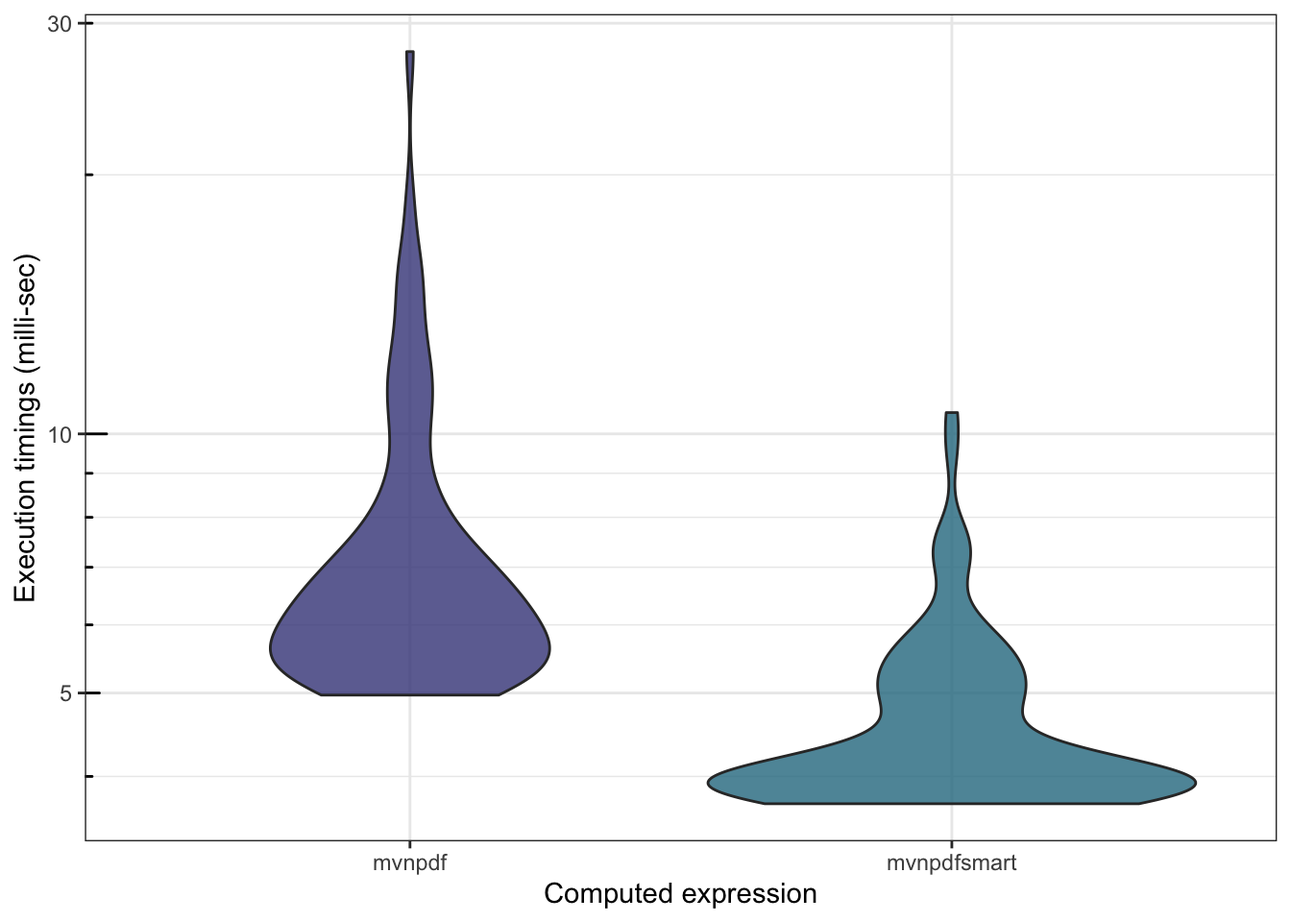
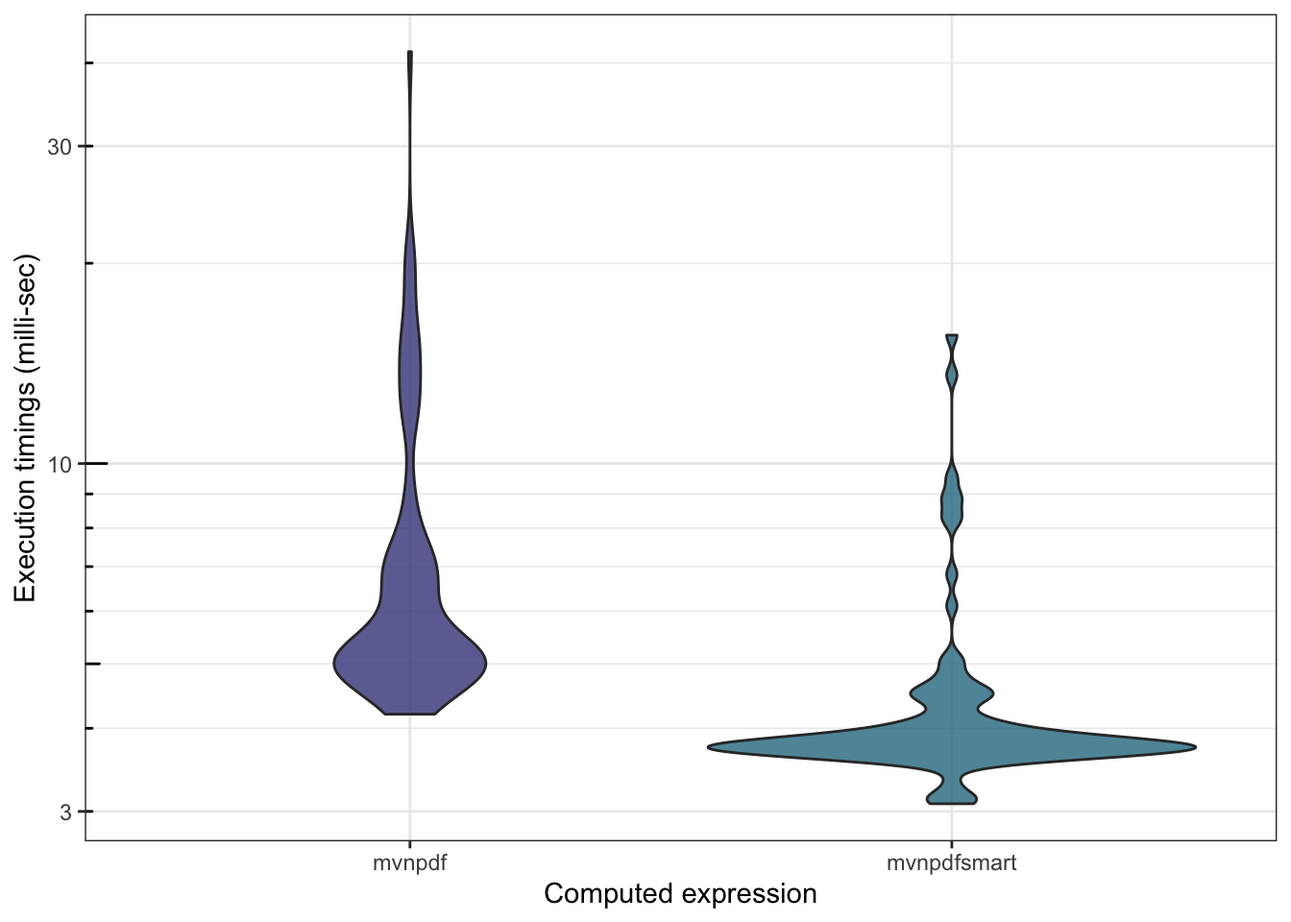
fixed allison horst ref

diff --git a/_book/code-parallelization.html b/_book/code-parallelization.html
@@ -90,7 +90,7 @@
 <p>👉 <strong><em>Your turn !</em></strong></p>
 <p>Start by writing a simple function that computes the logarithm of <span class="math inline">\(n\)</span> numbers:</p>
 <ol style="list-style-type: decimal">
-<li><p>Determine how many cores are available on your computer with the function <code><a href="https://future.futureverse.org/reference/re-exports.html">future::availableCores()</a></code>.</p></li>
+<li><p>Determine how many cores are available on your computer with the function <code><a href="https://rdrr.io/pkg/future/man/re-exports.html">future::availableCores()</a></code>.</p></li>
 <li><p>Using the function <code>future::plan(multisession(workers = XX))</code>, declare a “<em>plan</em>” of parallel computations on your computer (taking care to <strong>always leave at least one core available</strong> to handle other processes).</p></li>
 <li><p>Using one of the <em>apply</em> functions <code>future.apply::future_*apply()</code>, compute the log of <span class="math inline">\(n\)</span> numbers in parallel and concatenate the results into a vector.</p></li>
 <li><p>Compare the execution time with that of a sequential function on the first 100 integers, using the command :<br><code>microbenchmark(log_par(1:100), log_seq(1:100), times=10)</code></p></li>
@@ -111,13 +111,13 @@
 <span class="op">}</span>
 
 <span class="va">log_par</span> <span class="op">&lt;-</span> <span class="kw">function</span><span class="op">(</span><span class="va">x</span><span class="op">)</span><span class="op">{</span>
-  <span class="va">res</span> <span class="op">&lt;-</span> <span class="fu"><a href="https://future.apply.futureverse.org/reference/future_lapply.html">future_sapply</a></span><span class="op">(</span><span class="fl">1</span><span class="op">:</span><span class="fu"><a href="https://rdrr.io/r/base/length.html">length</a></span><span class="op">(</span><span class="va">x</span><span class="op">)</span>, FUN <span class="op">=</span> <span class="kw">function</span><span class="op">(</span><span class="va">i</span><span class="op">)</span> <span class="op">{</span>
+  <span class="va">res</span> <span class="op">&lt;-</span> <span class="fu"><a href="https://rdrr.io/pkg/future.apply/man/future_lapply.html">future_sapply</a></span><span class="op">(</span><span class="fl">1</span><span class="op">:</span><span class="fu"><a href="https://rdrr.io/r/base/length.html">length</a></span><span class="op">(</span><span class="va">x</span><span class="op">)</span>, FUN <span class="op">=</span> <span class="kw">function</span><span class="op">(</span><span class="va">i</span><span class="op">)</span> <span class="op">{</span>
     <span class="fu"><a href="https://rdrr.io/r/base/Log.html">log</a></span><span class="op">(</span><span class="va">x</span><span class="op">[</span><span class="va">i</span><span class="op">]</span><span class="op">)</span>
   <span class="op">}</span><span class="op">)</span>
   <span class="kw"><a href="https://rdrr.io/r/base/function.html">return</a></span><span class="op">(</span><span class="va">res</span><span class="op">)</span>
 <span class="op">}</span>
 
-<span class="fu"><a href="https://future.futureverse.org/reference/plan.html">plan</a></span><span class="op">(</span><span class="fu"><a href="https://future.futureverse.org/reference/multisession.html">multisession</a></span><span class="op">(</span>workers <span class="op">=</span> <span class="fl">3</span><span class="op">)</span><span class="op">)</span>
+<span class="fu"><a href="https://rdrr.io/pkg/future/man/plan.html">plan</a></span><span class="op">(</span><span class="fu"><a href="https://rdrr.io/pkg/future/man/multisession.html">multisession</a></span><span class="op">(</span>workers <span class="op">=</span> <span class="fl">3</span><span class="op">)</span><span class="op">)</span>
 <span class="va">mb</span> <span class="op">&lt;-</span> <span class="fu"><a href="https://rdrr.io/pkg/microbenchmark/man/microbenchmark.html">microbenchmark</a></span><span class="op">(</span><span class="fu">log_par</span><span class="op">(</span><span class="fl">1</span><span class="op">:</span><span class="fl">100</span><span class="op">)</span>, <span class="fu">log_seq</span><span class="op">(</span><span class="fl">1</span><span class="op">:</span><span class="fl">100</span><span class="op">)</span>, times <span class="op">=</span> <span class="fl">50</span><span class="op">)</span></code></pre></div>
 <div class="inline-figure"><img src="AdvancedRcourse_dev_perf_files/figure-html/unnamed-chunk-37-1.png" width="672"></div>
 <p>The parallel version runs much slower… Because in fact, if the individual tasks are too fast, <svg aria-hidden="true" role="img" viewbox="0 0 581 512" style="height:1em;width:1.13em;vertical-align:-0.125em;margin-left:auto;margin-right:auto;font-size:inherit;fill:currentColor;overflow:visible;position:relative;"><path d="M581 226.6C581 119.1 450.9 32 290.5 32S0 119.1 0 226.6C0 322.4 103.3 402 239.4 418.1V480h99.1v-61.5c24.3-2.7 47.6-7.4 69.4-13.9L448 480h112l-67.4-113.7c54.5-35.4 88.4-84.9 88.4-139.7zm-466.8 14.5c0-73.5 98.9-133 220.8-133s211.9 40.7 211.9 133c0 50.1-26.5 85-70.3 106.4-2.4-1.6-4.7-2.9-6.4-3.7-10.2-5.2-27.8-10.5-27.8-10.5s86.6-6.4 86.6-92.7-90.6-87.9-90.6-87.9h-199V361c-74.1-21.5-125.2-67.1-125.2-119.9zm225.1 38.3v-55.6c57.8 0 87.8-6.8 87.8 27.3 0 36.5-38.2 28.3-87.8 28.3zm-.9 72.5H365c10.8 0 18.9 11.7 24 19.2-16.1 1.9-33 2.8-50.6 2.9v-22.1z"></path></svg> will spend more time communicating with the cores than doing the actual computations.</p>
@@ -141,7 +141,7 @@
 <span class="op">}</span>
 <span class="fu"><a href="https://rdrr.io/r/base/system.time.html">system.time</a></span><span class="op">(</span><span class="fu">colmedian_apply</span><span class="op">(</span><span class="va">x</span><span class="op">)</span><span class="op">)</span></code></pre></div>
 <pre><code>## utilisateur     système      écoulé 
-##       3.215       0.032       3.258</code></pre>
+##       2.733       0.003       2.737</code></pre>
 <p>In reality, a (good) <code>for</code> loop is no slower – provided it is nicely programmed:</p>
 <div class="sourceCode" id="cb46"><pre class="downlit sourceCode r">
 <code class="sourceCode R"><span class="va">colmedian_for</span> <span class="op">&lt;-</span> <span class="kw">function</span><span class="op">(</span><span class="va">x</span><span class="op">)</span><span class="op">{</span>
@@ -153,7 +153,7 @@
 <span class="op">}</span>
 <span class="fu"><a href="https://rdrr.io/r/base/system.time.html">system.time</a></span><span class="op">(</span><span class="fu">colmedian_for</span><span class="op">(</span><span class="va">x</span><span class="op">)</span><span class="op">)</span></code></pre></div>
 <pre><code>## utilisateur     système      écoulé 
-##       2.867       0.008       2.881</code></pre>
+##       2.608       0.003       2.613</code></pre>
 <blockquote>
 <p>👉 <strong><em>Your turn !</em></strong>
 Try to further improve this computation time through parallelizing your code:</p>
@@ -164,19 +164,19 @@ Try to further improve this computation time through parallelizing your code:</p
 </blockquote>
 <div class="sourceCode" id="cb48"><pre class="downlit sourceCode r">
 <code class="sourceCode R"><span class="va">colmedian_par</span> <span class="op">&lt;-</span> <span class="kw">function</span><span class="op">(</span><span class="va">x</span><span class="op">)</span><span class="op">{</span>
-  <span class="va">res</span> <span class="op">&lt;-</span> <span class="fu"><a href="https://future.apply.futureverse.org/reference/future_lapply.html">future_sapply</a></span><span class="op">(</span><span class="fl">1</span><span class="op">:</span><span class="fu"><a href="https://rdrr.io/r/base/nrow.html">ncol</a></span><span class="op">(</span><span class="va">x</span><span class="op">)</span>, FUN <span class="op">=</span> <span class="kw">function</span><span class="op">(</span><span class="va">i</span><span class="op">)</span> <span class="op">{</span>
+  <span class="va">res</span> <span class="op">&lt;-</span> <span class="fu"><a href="https://rdrr.io/pkg/future.apply/man/future_lapply.html">future_sapply</a></span><span class="op">(</span><span class="fl">1</span><span class="op">:</span><span class="fu"><a href="https://rdrr.io/r/base/nrow.html">ncol</a></span><span class="op">(</span><span class="va">x</span><span class="op">)</span>, FUN <span class="op">=</span> <span class="kw">function</span><span class="op">(</span><span class="va">i</span><span class="op">)</span> <span class="op">{</span>
           <span class="fu"><a href="https://rdrr.io/r/stats/median.html">median</a></span><span class="op">(</span><span class="va">x</span><span class="op">[</span>, <span class="va">i</span><span class="op">]</span><span class="op">)</span>
     <span class="op">}</span><span class="op">)</span>
   <span class="kw"><a href="https://rdrr.io/r/base/function.html">return</a></span><span class="op">(</span><span class="va">res</span><span class="op">)</span>
 <span class="op">}</span>
-<span class="fu"><a href="https://future.futureverse.org/reference/plan.html">plan</a></span><span class="op">(</span><span class="fu"><a href="https://future.futureverse.org/reference/multisession.html">multisession</a></span><span class="op">(</span>workers <span class="op">=</span> <span class="fl">3</span><span class="op">)</span><span class="op">)</span>
+<span class="fu"><a href="https://rdrr.io/pkg/future/man/plan.html">plan</a></span><span class="op">(</span><span class="fu"><a href="https://rdrr.io/pkg/future/man/multisession.html">multisession</a></span><span class="op">(</span>workers <span class="op">=</span> <span class="fl">3</span><span class="op">)</span><span class="op">)</span>
 <span class="fu"><a href="https://rdrr.io/r/base/system.time.html">system.time</a></span><span class="op">(</span><span class="fu">colmedian_par</span><span class="op">(</span><span class="va">x</span><span class="op">)</span><span class="op">)</span></code></pre></div>
 <pre><code>## utilisateur     système      écoulé 
 ##       0.101       0.019       1.439</code></pre>
 <div class="sourceCode" id="cb50"><pre class="downlit sourceCode r">
 <code class="sourceCode R"><span class="va">colmedian_parIter</span> <span class="op">&lt;-</span> <span class="kw">function</span><span class="op">(</span><span class="va">x</span>, <span class="va">ncores</span> <span class="op">=</span> <span class="fl">1</span><span class="op">)</span><span class="op">{</span>
   <span class="va">iter</span> <span class="op">&lt;-</span> <span class="fu">itertools</span><span class="fu">::</span><span class="fu"><a href="https://rdrr.io/pkg/itertools/man/isplitIndices.html">isplitIndices</a></span><span class="op">(</span>n <span class="op">=</span> <span class="fu"><a href="https://rdrr.io/r/base/nrow.html">ncol</a></span><span class="op">(</span><span class="va">x</span><span class="op">)</span>, chunks <span class="op">=</span> <span class="va">ncores</span><span class="op">)</span>
-  <span class="va">res</span> <span class="op">&lt;-</span> <span class="fu"><a href="https://future.apply.futureverse.org/reference/future_lapply.html">future_sapply</a></span><span class="op">(</span><span class="va">iter</span>, FUN <span class="op">=</span> <span class="kw">function</span><span class="op">(</span><span class="va">i</span><span class="op">)</span> <span class="op">{</span>
+  <span class="va">res</span> <span class="op">&lt;-</span> <span class="fu"><a href="https://rdrr.io/pkg/future.apply/man/future_lapply.html">future_sapply</a></span><span class="op">(</span><span class="va">iter</span>, FUN <span class="op">=</span> <span class="kw">function</span><span class="op">(</span><span class="va">i</span><span class="op">)</span> <span class="op">{</span>
           <span class="fu"><a href="https://rdrr.io/r/base/apply.html">apply</a></span><span class="op">(</span><span class="va">x</span><span class="op">[</span>, <span class="va">i</span><span class="op">]</span>, <span class="fl">2</span>, <span class="va">median</span><span class="op">)</span>
     <span class="op">}</span><span class="op">)</span>
   <span class="kw"><a href="https://rdrr.io/r/base/function.html">return</a></span><span class="op">(</span><span class="fu"><a href="https://rdrr.io/r/base/unlist.html">unlist</a></span><span class="op">(</span><span class="va">res</span><span class="op">)</span><span class="op">)</span>
@@ -249,7 +249,7 @@ Try to further improve this computation time through parallelizing your code:</p
 </ol>
 </blockquote>
 <div class="sourceCode" id="cb62"><pre class="downlit sourceCode r">
-<code class="sourceCode R"><span class="fu"><a href="https://future.futureverse.org/reference/plan.html">plan</a></span><span class="op">(</span><span class="fu"><a href="https://future.futureverse.org/reference/multisession.html">multisession</a></span><span class="op">(</span>workers <span class="op">=</span> <span class="fl">3</span><span class="op">)</span><span class="op">)</span>
+<code class="sourceCode R"><span class="fu"><a href="https://rdrr.io/pkg/future/man/plan.html">plan</a></span><span class="op">(</span><span class="fu"><a href="https://rdrr.io/pkg/future/man/multisession.html">multisession</a></span><span class="op">(</span>workers <span class="op">=</span> <span class="fl">3</span><span class="op">)</span><span class="op">)</span>
 <span class="va">n</span> <span class="op">&lt;-</span> <span class="fl">10000</span>
 <span class="va">mb</span> <span class="op">&lt;-</span> <span class="fu">microbenchmark</span><span class="fu">::</span><span class="fu"><a href="https://rdrr.io/pkg/microbenchmark/man/microbenchmark.html">microbenchmark</a></span><span class="op">(</span>
   <span class="fu">mvtnorm</span><span class="fu">::</span><span class="fu"><a href="https://rdrr.io/pkg/mvtnorm/man/Mvnorm.html">dmvnorm</a></span><span class="op">(</span><span class="fu"><a href="https://rdrr.io/r/base/matrix.html">matrix</a></span><span class="op">(</span><span class="fl">1.96</span>, nrow <span class="op">=</span> <span class="va">n</span>, ncol <span class="op">=</span> <span class="fl">2</span><span class="op">)</span><span class="op">)</span>,

diff --git a/_book/measuring-and-comparing-execution-times.html b/_book/measuring-and-comparing-execution-times.html
@@ -73,13 +73,13 @@
 <div class="sourceCode" id="cb9"><pre class="downlit sourceCode r">
 <code class="sourceCode R"><span class="fu"><a href="https://rdrr.io/r/base/system.time.html">system.time</a></span><span class="op">(</span><span class="fu">mvnpdf</span><span class="op">(</span>x<span class="op">=</span><span class="fu"><a href="https://rdrr.io/r/base/matrix.html">matrix</a></span><span class="op">(</span><span class="fu"><a href="https://rdrr.io/r/base/rep.html">rep</a></span><span class="op">(</span><span class="fl">1.96</span>, <span class="fl">2</span><span class="op">)</span>, nrow<span class="op">=</span><span class="fl">2</span>, ncol<span class="op">=</span><span class="fl">1</span><span class="op">)</span>, Log<span class="op">=</span><span class="cn">FALSE</span><span class="op">)</span><span class="op">)</span></code></pre></div>
 <pre><code>## utilisateur     système      écoulé 
-##       0.002       0.001       0.005</code></pre>
+##       0.001       0.001       0.002</code></pre>
 <p>The problem that appears in this example is that the execution is so fast that <code><a href="https://rdrr.io/r/base/system.time.html">system.time()</a></code> displays <code>0</code> (or a very close value) that will be impossible to marginally compare to a hopefully faster implementation. Also, we see that there is some variability when we run the command several times.</p>
 <p>Thus if we want to compare our code with the <code><a href="https://rdrr.io/pkg/mvtnorm/man/Mvnorm.html">mvtnorm::dmvnorm()</a></code> function, we can’t use <code><a href="https://rdrr.io/r/base/system.time.html">system.time()</a></code> :</p>
 <div class="sourceCode" id="cb11"><pre class="downlit sourceCode r">
 <code class="sourceCode R"><span class="fu"><a href="https://rdrr.io/r/base/system.time.html">system.time</a></span><span class="op">(</span><span class="fu">mvtnorm</span><span class="fu">::</span><span class="fu"><a href="https://rdrr.io/pkg/mvtnorm/man/Mvnorm.html">dmvnorm</a></span><span class="op">(</span><span class="fu"><a href="https://rdrr.io/r/base/rep.html">rep</a></span><span class="op">(</span><span class="fl">1.96</span>, <span class="fl">2</span><span class="op">)</span><span class="op">)</span><span class="op">)</span></code></pre></div>
 <pre><code>## utilisateur     système      écoulé 
-##       0.005       0.003       0.014</code></pre>
+##       0.007       0.003       0.012</code></pre>
 <p>We could say that we have to increase the complexity of our calculation, but there is a better way: use the <code>microbenchmark</code> package !</p>
 </div>
 <div id="compare-execution-timings-with-microbenchmark." class="section level2" number="3.2">
@@ -96,11 +96,11 @@
 <span class="va">mb</span></code></pre></div>
 <pre><code>## Unit: microseconds
 ##                                           expr    min      lq     mean  median
-##                 mvtnorm::dmvnorm(rep(1.96, 2)) 37.379 42.9355 52.54257 51.6715
-##  mvnpdf(x = matrix(rep(1.96, 2)), Log = FALSE) 34.862 39.2890 50.39530 47.7425
-##       uq      max neval cld
-##  57.6005  125.814  1000   a
-##  52.9835 2247.580  1000   a</code></pre>
+##                 mvtnorm::dmvnorm(rep(1.96, 2)) 37.212 41.0765 48.52838 45.5785
+##  mvnpdf(x = matrix(rep(1.96, 2)), Log = FALSE) 34.953 38.5725 43.30504 42.3910
+##       uq     max neval cld
+##  50.4445 2112.30  1000   b
+##  47.2630   87.98  1000  a</code></pre>
 <pre><code>## Warning: It is deprecated to specify `guide = FALSE` to remove a guide. Please
 ## use `guide = "none"` instead.</code></pre>
 <div class="inline-figure"><img src="AdvancedRcourse_dev_perf_files/figure-html/unnamed-chunk-13-1.png" width="672"></div>
@@ -114,11 +114,11 @@
 <span class="va">mb</span></code></pre></div>
 <pre><code>## Unit: microseconds
 ##                                                       expr     min       lq
-##         mvtnorm::dmvnorm(matrix(1.96, nrow = n, ncol = 2))  55.462  65.4315
-##  mvnpdf(x = matrix(1.96, nrow = 2, ncol = n), Log = FALSE) 564.333 603.6595
-##      mean  median       uq      max neval cld
-##  107.7748  75.168 121.3215  482.759   100  a 
-##  731.2279 642.987 802.1805 1972.382   100   b</code></pre>
+##         mvtnorm::dmvnorm(matrix(1.96, nrow = n, ncol = 2))  44.854  56.9330
+##  mvnpdf(x = matrix(1.96, nrow = 2, ncol = n), Log = FALSE) 457.563 496.8785
+##       mean   median      uq     max neval cld
+##   65.35828  63.1275  68.297 157.015   100  a 
+##  536.09738 543.1960 567.687 644.379   100   b</code></pre>
 <pre><code>## Warning: It is deprecated to specify `guide = FALSE` to remove a guide. Please
 ## use `guide = "none"` instead.</code></pre>
 <div class="inline-figure"><img src="AdvancedRcourse_dev_perf_files/figure-html/unnamed-chunk-15-1.png" width="672"></div>

diff --git a/_book/profiling-code.html b/_book/profiling-code.html
@@ -91,11 +91,11 @@
 <span class="va">mb</span></code></pre></div>
 <pre><code>## Unit: milliseconds
 ##                                                            expr      min
-##       mvnpdf(x = matrix(1.96, nrow = 2, ncol = n), Log = FALSE) 4.972413
-##  mvnpdfsmart(x = matrix(1.96, nrow = 2, ncol = n), Log = FALSE) 3.718212
+##       mvnpdf(x = matrix(1.96, nrow = 2, ncol = n), Log = FALSE) 4.200427
+##  mvnpdfsmart(x = matrix(1.96, nrow = 2, ncol = n), Log = FALSE) 3.080737
 ##        lq     mean   median       uq      max neval cld
-##  5.454381 7.413385 6.179187 7.618442 27.80248   100   b
-##  3.885952 4.608430 4.049288 5.027731 10.58655   100  a</code></pre>
+##  4.977270 7.485438 5.223975 7.181703 41.59956   100   b
+##  3.687632 4.380944 3.799176 4.105748 15.59536   100  a</code></pre>
 <pre><code>## Warning: It is deprecated to specify `guide = FALSE` to remove a guide. Please
 ## use `guide = "none"` instead.</code></pre>
 <div class="inline-figure"><img src="AdvancedRcourse_dev_perf_files/figure-html/unnamed-chunk-20-1.png" width="672"></div>
@@ -109,13 +109,13 @@
 <span class="va">mb</span></code></pre></div>
 <pre><code>## Unit: microseconds
 ##                                                            expr      min
-##              mvtnorm::dmvnorm(matrix(1.96, nrow = n, ncol = 2))   66.072
-##       mvnpdf(x = matrix(1.96, nrow = 2, ncol = n), Log = FALSE) 4006.436
-##  mvnpdfsmart(x = matrix(1.96, nrow = 2, ncol = n), Log = FALSE) 3041.654
-##         lq     mean    median        uq       max neval cld
-##    88.5875  129.627  119.5615  149.5165   391.576   100 a  
-##  5121.4265 6827.480 5580.9280 6877.8830 20684.964   100   c
-##  3705.3660 4183.261 3818.8540 4297.5775  8208.904   100  b</code></pre>
+##              mvtnorm::dmvnorm(matrix(1.96, nrow = n, ncol = 2))   61.307
+##       mvnpdf(x = matrix(1.96, nrow = 2, ncol = n), Log = FALSE) 4165.569
+##  mvnpdfsmart(x = matrix(1.96, nrow = 2, ncol = n), Log = FALSE) 3079.885
+##         lq      mean   median       uq       max neval cld
+##    74.6945  111.3643   90.577  109.798   639.125   100 a  
+##  4897.7485 6951.7290 5090.233 6285.787 31592.796   100   c
+##  3389.0795 4160.1151 3670.868 3832.067 11074.795   100  b</code></pre>
 <pre><code>## Warning: It is deprecated to specify `guide = FALSE` to remove a guide. Please
 ## use `guide = "none"` instead.</code></pre>
 <div class="inline-figure"><img src="AdvancedRcourse_dev_perf_files/figure-html/unnamed-chunk-22-1.png" width="672"></div>
@@ -142,15 +142,15 @@
 <span class="va">mb</span></code></pre></div>
 <pre><code>## Unit: microseconds
 ##                                                            expr      min
-##              mvtnorm::dmvnorm(matrix(1.96, nrow = n, ncol = 2))   71.656
-##       mvnpdf(x = matrix(1.96, nrow = 2, ncol = n), Log = FALSE) 4453.270
-##  mvnpdfsmart(x = matrix(1.96, nrow = 2, ncol = n), Log = FALSE) 3233.124
-##  mvnpdfoptim(x = matrix(1.96, nrow = 2, ncol = n), Log = FALSE) 2492.681
-##         lq      mean    median        uq       max neval  cld
-##    91.7325  129.7508  109.4885  136.9845   429.569   100 a   
-##  5048.5425 6377.8830 5215.0350 6682.7495 15303.974   100    d
-##  3747.9180 4348.4901 3868.8620 4170.4580 18169.319   100   c 
-##  2796.7570 3362.5523 2946.2360 3386.3420 12699.268   100  b</code></pre>
+##              mvtnorm::dmvnorm(matrix(1.96, nrow = n, ncol = 2))   64.514
+##       mvnpdf(x = matrix(1.96, nrow = 2, ncol = n), Log = FALSE) 4202.958
+##  mvnpdfsmart(x = matrix(1.96, nrow = 2, ncol = n), Log = FALSE) 3011.690
+##  mvnpdfoptim(x = matrix(1.96, nrow = 2, ncol = n), Log = FALSE) 2342.014
+##        lq     mean    median       uq       max neval  cld
+##    79.058  180.621   92.5195  108.218  7565.322   100 a   
+##  4970.475 6877.654 5203.5365 6703.522 30723.253   100    d
+##  3660.788 4502.434 3761.1350 3944.974 13330.380   100   c 
+##  2711.075 3093.894 2787.9775 2967.304  7437.617   100  b</code></pre>
 <pre><code>## Warning: It is deprecated to specify `guide = FALSE` to remove a guide. Please
 ## use `guide = "none"` instead.</code></pre>
 <div class="inline-figure"><img src="AdvancedRcourse_dev_perf_files/figure-html/unnamed-chunk-25-1.png" width="672"></div>

diff --git a/_book/rcpp-or-how-to-easily-embed-c-code-into-a-package.html b/_book/rcpp-or-how-to-easily-embed-c-code-into-a-package.html
@@ -118,17 +118,17 @@ package:</p></li>
 <span class="va">mb</span></code></pre></div>
 <pre><code>## Unit: microseconds
 ##                                                            expr      min
-##              mvtnorm::dmvnorm(matrix(1.96, nrow = n, ncol = 2))   66.853
-##       mvnpdf(x = matrix(1.96, nrow = 2, ncol = n), Log = FALSE) 4453.579
-##  mvnpdfsmart(x = matrix(1.96, nrow = 2, ncol = n), Log = FALSE) 3339.296
-##  mvnpdfoptim(x = matrix(1.96, nrow = 2, ncol = n), Log = FALSE) 2649.912
-##  mvnpdf_invC(x = matrix(1.96, nrow = 2, ncol = n), Log = FALSE) 3667.544
-##        lq      mean   median       uq       max neval  cld
-##    91.959  135.9596  122.343  137.717   917.823   100 a   
-##  5205.447 6551.9141 5375.918 6164.699 24142.182   100    d
-##  3876.379 4360.7355 4012.051 4225.577 11916.075   100   c 
-##  2926.358 3482.9645 3056.748 3267.166  9220.991   100  b  
-##  3872.009 4404.3342 4003.054 4248.977 10356.483   100   c</code></pre>
+##              mvtnorm::dmvnorm(matrix(1.96, nrow = n, ncol = 2))   61.390
+##       mvnpdf(x = matrix(1.96, nrow = 2, ncol = n), Log = FALSE) 3996.827
+##  mvnpdfsmart(x = matrix(1.96, nrow = 2, ncol = n), Log = FALSE) 3001.503
+##  mvnpdfoptim(x = matrix(1.96, nrow = 2, ncol = n), Log = FALSE) 2263.088
+##  mvnpdf_invC(x = matrix(1.96, nrow = 2, ncol = n), Log = FALSE) 2974.542
+##        lq      mean   median        uq       max neval  cld
+##    79.989  114.5686   92.560  112.8965   766.532   100 a   
+##  4467.273 6062.7156 4942.633 5224.0240 39229.584   100    d
+##  3249.091 4215.4199 3657.314 3764.6225 12208.239   100   c 
+##  2431.793 3089.0303 2690.767 2780.7465 10342.225   100  b  
+##  3476.746 3841.3008 3660.561 3764.9820 12349.676   100  bc</code></pre>
 <pre><code>## Warning: It is deprecated to specify `guide = FALSE` to remove a guide. Please
 ## use `guide = "none"` instead.</code></pre>
 <div class="inline-figure"><img src="AdvancedRcourse_dev_perf_files/figure-html/unnamed-chunk-31-1.png" width="672"></div>
@@ -169,13 +169,13 @@ package:</p></li>
 ##                                        mvnpdfoptim(x = matrix(1.96, nrow = 2, ncol = n), Log = FALSE)
 ##                                        mvnpdf_invC(x = matrix(1.96, nrow = 2, ncol = n), Log = FALSE)
 ##  mvnpdfC(x = matrix(1.96, nrow = 2, ncol = n), mean = rep(0, 2),      varcovM = diag(2), Log = FALSE)
-##       min        lq       mean    median       uq        max neval cld
-##    66.595   96.8665  142.64039  116.3345  141.830    619.280   100 a  
-##  4408.196 5170.2495 8709.83017 5359.0350 6253.693 237641.973   100   c
-##  3342.163 3826.8865 4762.60495 4051.9470 4659.051  11606.771   100  b 
-##  2413.594 2910.6695 3567.61437 3123.5340 3600.155   9033.500   100 ab 
-##  3365.410 3815.1960 4508.30489 3983.9165 4435.009   9872.198   100  b 
-##    46.337   63.5985   95.70038   73.4080   89.778   1168.544   100 a</code></pre>
+##       min        lq       mean    median        uq        max neval cld
+##    61.553   77.0125  111.78428   92.1175  118.0315    515.036   100 a  
+##  4042.454 4580.7640 5992.98203 4998.1355 5676.4795  30773.995   100   c
+##  2997.139 3338.7890 4074.67161 3741.6100 4321.6750  11226.669   100  bc
+##  2226.261 2400.9400 3114.54062 2760.6005 3183.0535  11715.382   100  b 
+##  2987.953 3209.5160 5371.54484 3671.6865 3841.4660 126518.420   100   c
+##    44.536   55.3770   85.80299   63.6300   75.5595   1186.723   100 a</code></pre>
 <pre><code>## Warning: It is deprecated to specify `guide = FALSE` to remove a guide. Please
 ## use `guide = "none"` instead.</code></pre>
 <div class="inline-figure"><img src="AdvancedRcourse_dev_perf_files/figure-html/unnamed-chunk-34-1.png" width="672"></div>

diff --git a/_book/version-control-with-git-and-github.html b/_book/version-control-with-git-and-github.html
@@ -116,7 +116,7 @@ register the current state of your package by making your first commit:</p></li>
 </ol>
 </blockquote>
 <div class="figure">
-<img src="AdvancedRcourse_dev_perf_files/github_fall.png" style="width:100.0%" alt=""><p class="caption">Artwork CC-BY <span class="citation">(<a href="#ref-allison_horst" role="doc-biblioref"><strong>allison_horst?</strong></a>)</span></p>
+<img src="AdvancedRcourse_dev_perf_files/github_fall.png" style="width:100.0%" alt=""><p class="caption">Artwork CC-BY Allison Horst</p>
 </div>
 <div id="good-commit-practices" class="section level3" number="2.2.1">
 <h3>
@@ -125,7 +125,7 @@ register the current state of your package by making your first commit:</p></li>
 <p>Ideally, each commit should solve only one problem. It should fix it in its entirety (be <strong>complete</strong>), and contain only changes related to that very problem (be <strong>minimal</strong>). It is especially useful to write <strong>informative</strong> commit messages (be kind and help your collaborators, which includes your <strong>future self</strong>). You should also be concise, and describe the reasons for the changes rather than the the changes themselves (visible in the <em>Diff</em>). <strong>NB:</strong> it is sometimes difficult to follow these guidelines to the letter, and they are merely an ideal guide. They certainly should not prevent you from should from regularly making <em>commits</em>.</p>
 <p>On the other hand, the temptation to have a <em>“clean” and tidy</em> change-history is natural, but it is a source of unnecessary problems. It contradicts the traceability goal of version control. Since code development is generally a complex, messy, and non-linear intellectual process, it is normal that the recording of changes reflects this path. In practice, your future self will be the first user of your change history, so the priority is to make it easier for you in the future when solving bugs or extending functionality.</p>
 <div class="figure">
-<img src="AdvancedRcourse_dev_perf_files/github_wickham_bryan_git_quote.png" style="width:100.0%" alt=""><p class="caption">Artwork CC-BY <span class="citation">(<a href="#ref-allison_horst" role="doc-biblioref"><strong>allison_horst?</strong></a>)</span></p>
+<img src="AdvancedRcourse_dev_perf_files/github_wickham_bryan_git_quote.png" style="width:100.0%" alt=""><p class="caption">Artwork CC-BY Allison Horst</p>
 </div>
 </div>
 </div>
@@ -167,7 +167,7 @@ page on GitHub:</p></li>
 <span class="header-section-number">2.4</span> Collaborative code production<a class="anchor" aria-label="anchor" href="#collaborative-code-production"><i class="fas fa-link"></i></a>
 </h2>
 <div class="figure">
-<img src="AdvancedRcourse_dev_perf_files/github_friends.png" style="width:100.0%" alt=""><p class="caption">Artwork CC-BY <span class="citation">(<a href="#ref-allison_horst" role="doc-biblioref"><strong>allison_horst?</strong></a>)</span></p>
+<img src="AdvancedRcourse_dev_perf_files/github_friends.png" style="width:100.0%" alt=""><p class="caption">Artwork CC-BY Allison Horst</p>
 </div>
 <p><code>git</code> and GitHub are particularly useful and efficient when several people collaborate to develop code together. Indeed, everyone can <em>pull</em> and <em>push</em> successive changes to the code, simultaneously, while endusing to always be working on the latest version of the code. We will see different concepts useful in the case of such a collaborative work.</p>
 <blockquote>
